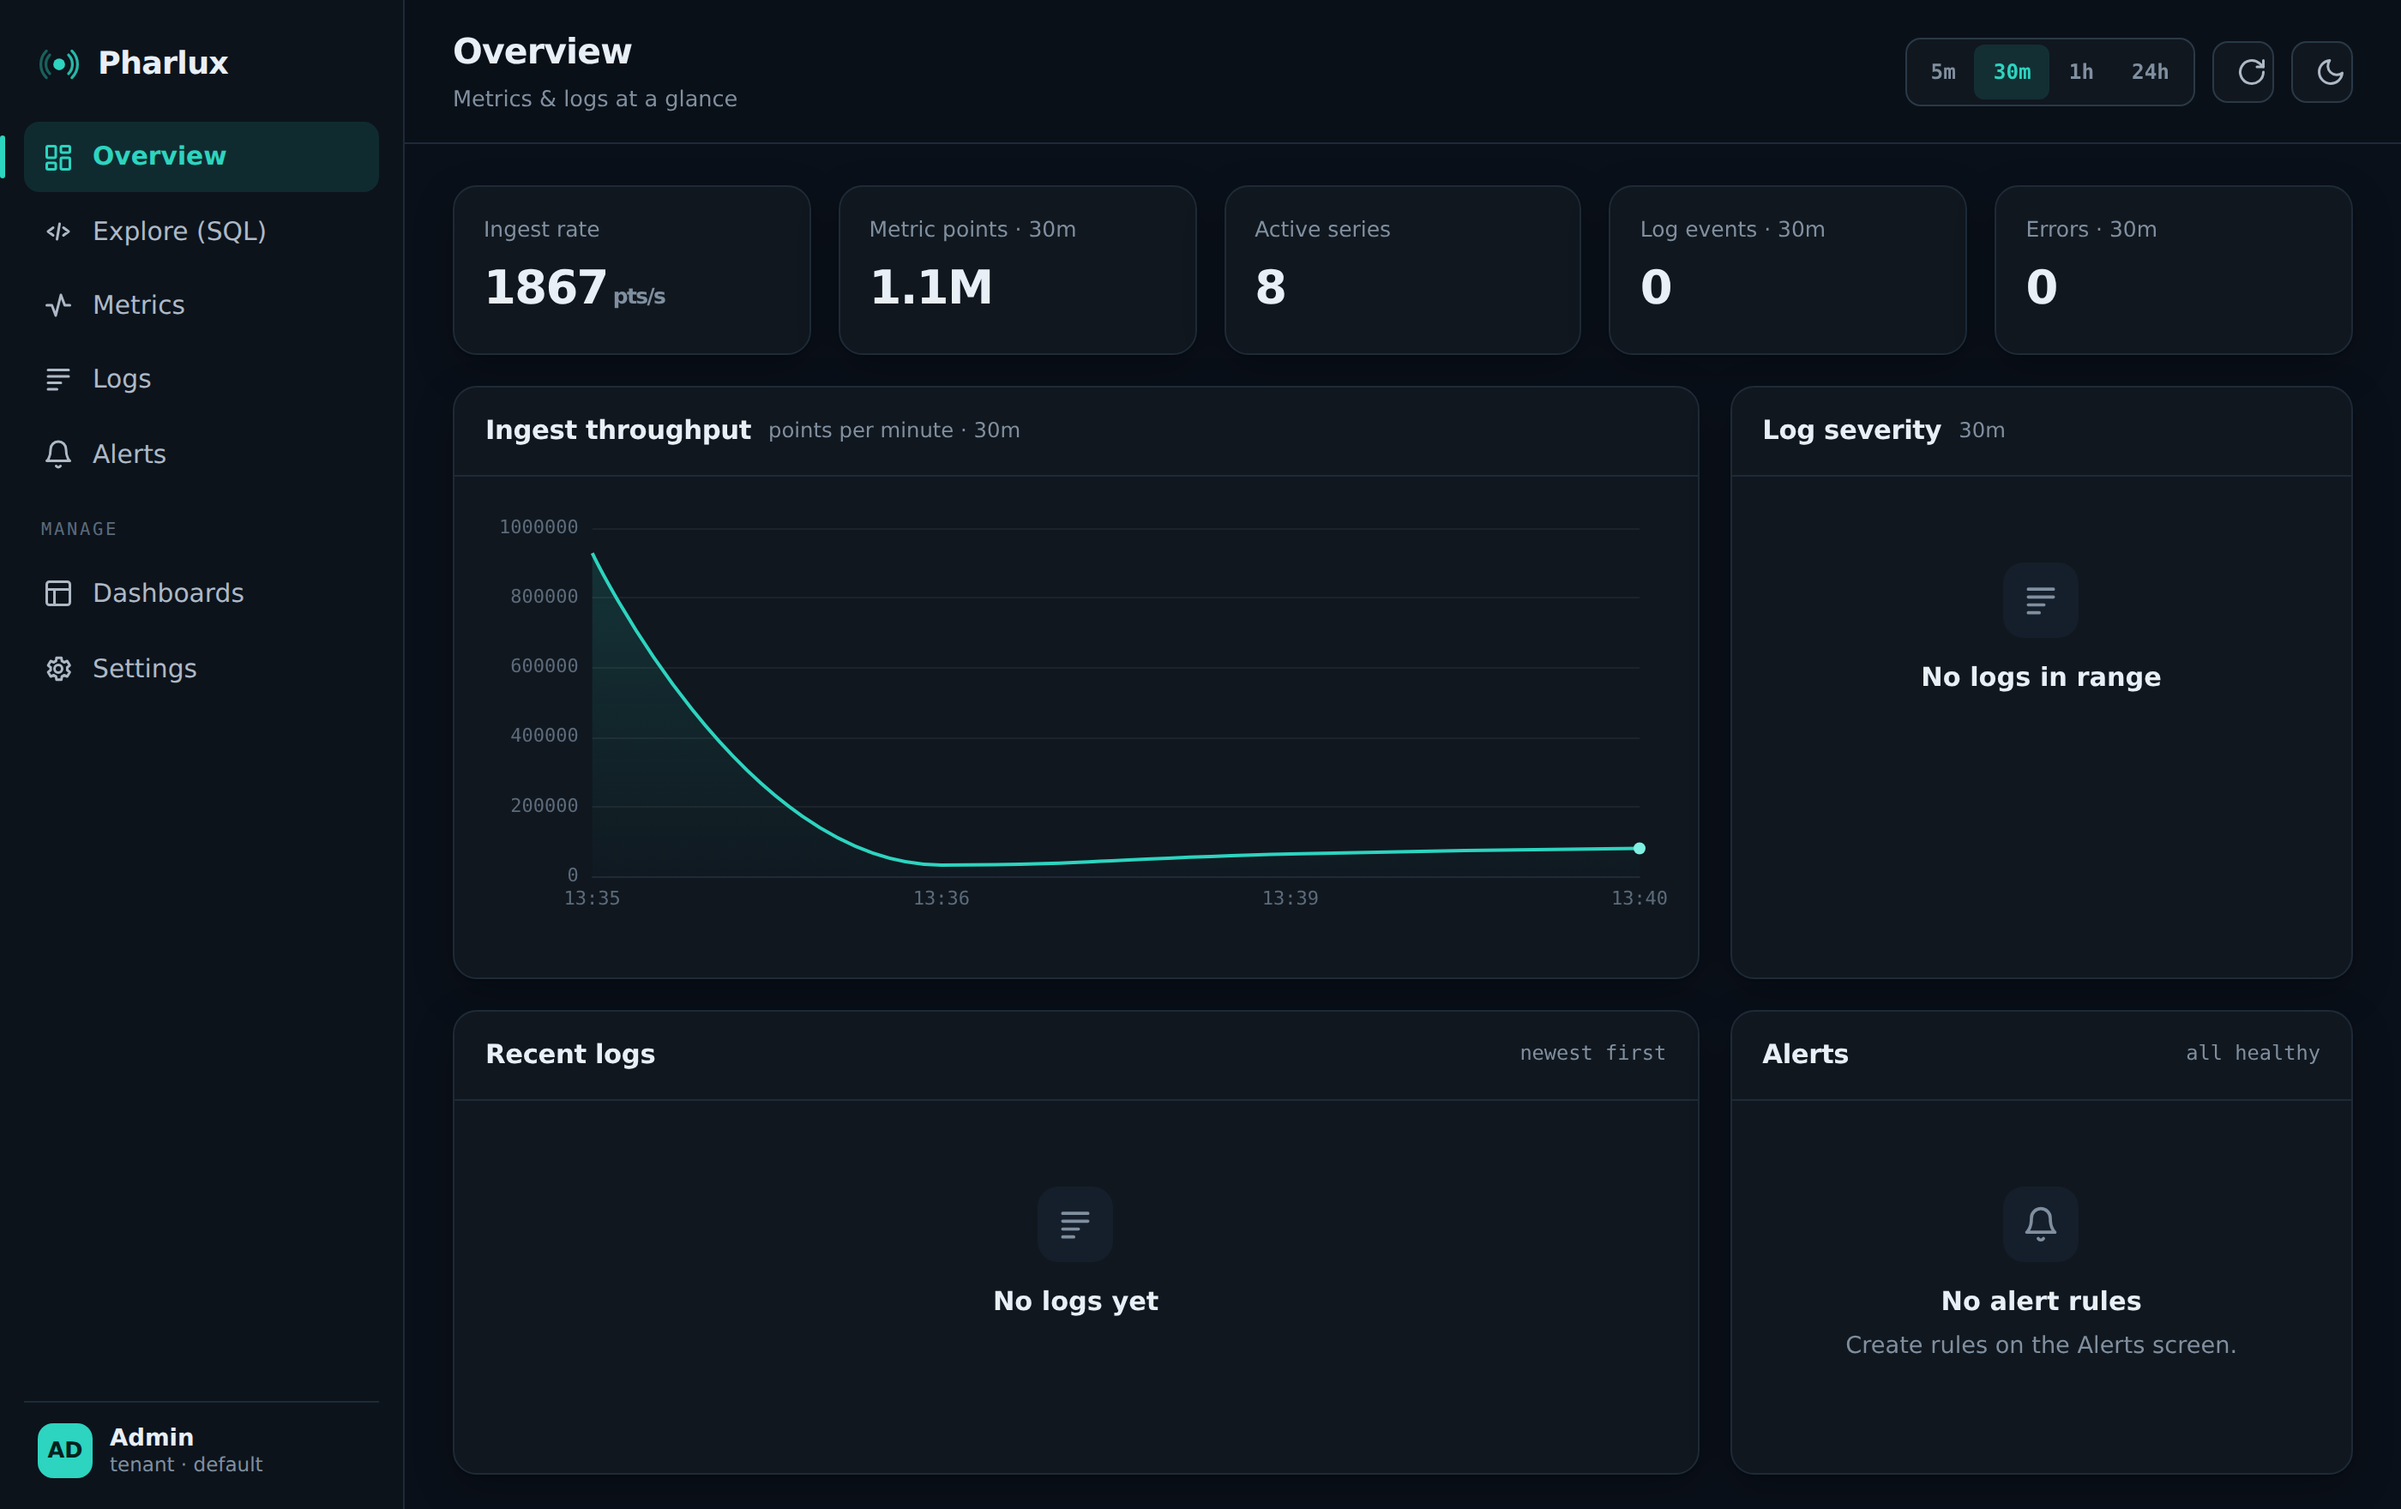
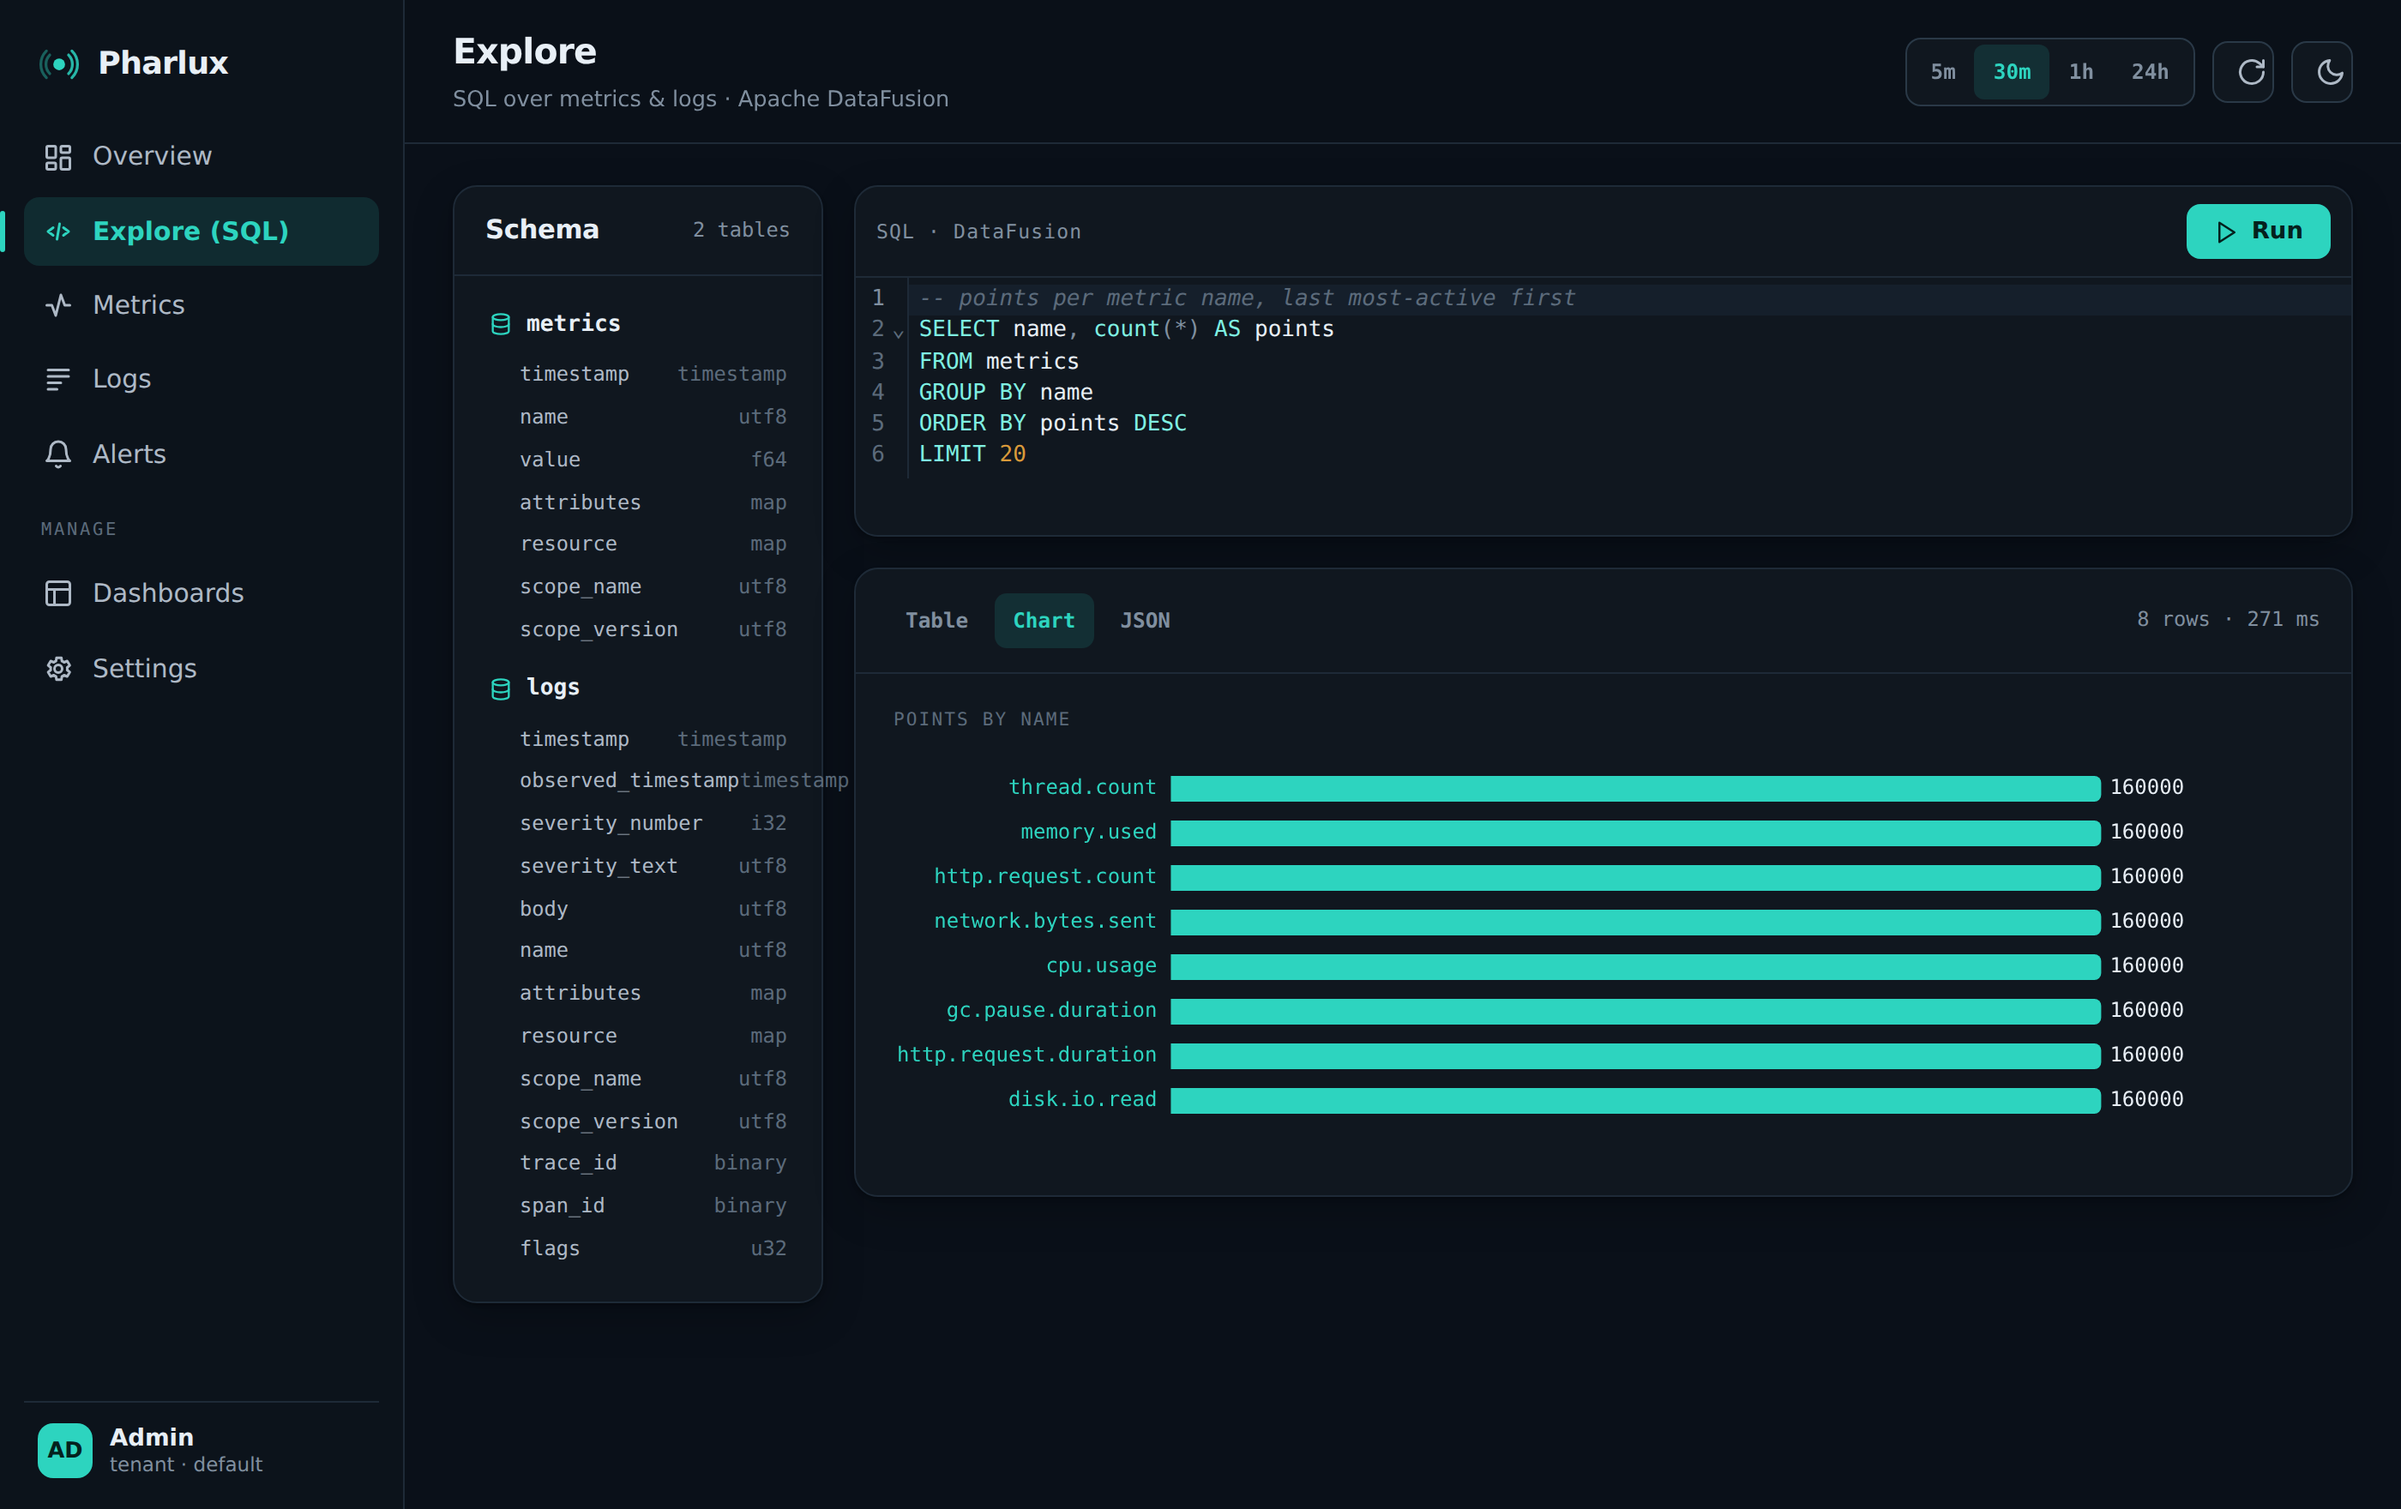
SigNoz blog: use the Explore chart view (distinct from the Overview reuse)
Replace the duplicated Overview screenshot with the Explore screen's Chart
tab (points-by-metric bar chart), so the SigNoz post and the running-on-a-vps
post don't share the same image. Caption updated.

diff --git a/blog/2026-05-05-pharlux-vs-signoz-on-a-20-dollar-vps/index.md b/blog/2026-05-05-pharlux-vs-signoz-on-a-20-dollar-vps/index.md
@@ -58,7 +58,7 @@ The numbers on this $20 box:
 
 For context: sustained ingest is single-core-bound (the WAL fsync path runs on one core), which is why this 2 vCPU box lands near 100k where our [4 vCPU / 8 GB benchmark](/benchmarks) reaches 350k. A team running 1–10 services generates a few *thousand* points per second, so even the small box has one to two orders of magnitude of headroom.
 
-![The Pharlux Clarity console — the Overview screen during the run: live ingest rate, total metric points, active series, and a healthy ingest-throughput chart, all served from the bundled single-binary UI with no extra components to install.](./pharlux-console.png)
+![The Pharlux Clarity console — the Explore screen charting points-per-metric from the ingest run (`SELECT name, count(*) AS points FROM metrics GROUP BY name`), answered in 271 ms by the bundled Apache DataFusion engine. SQL, chart, and schema browser all come from the single binary — nothing else to install.](./pharlux-console.png)
 
 ## The SigNoz side
 
